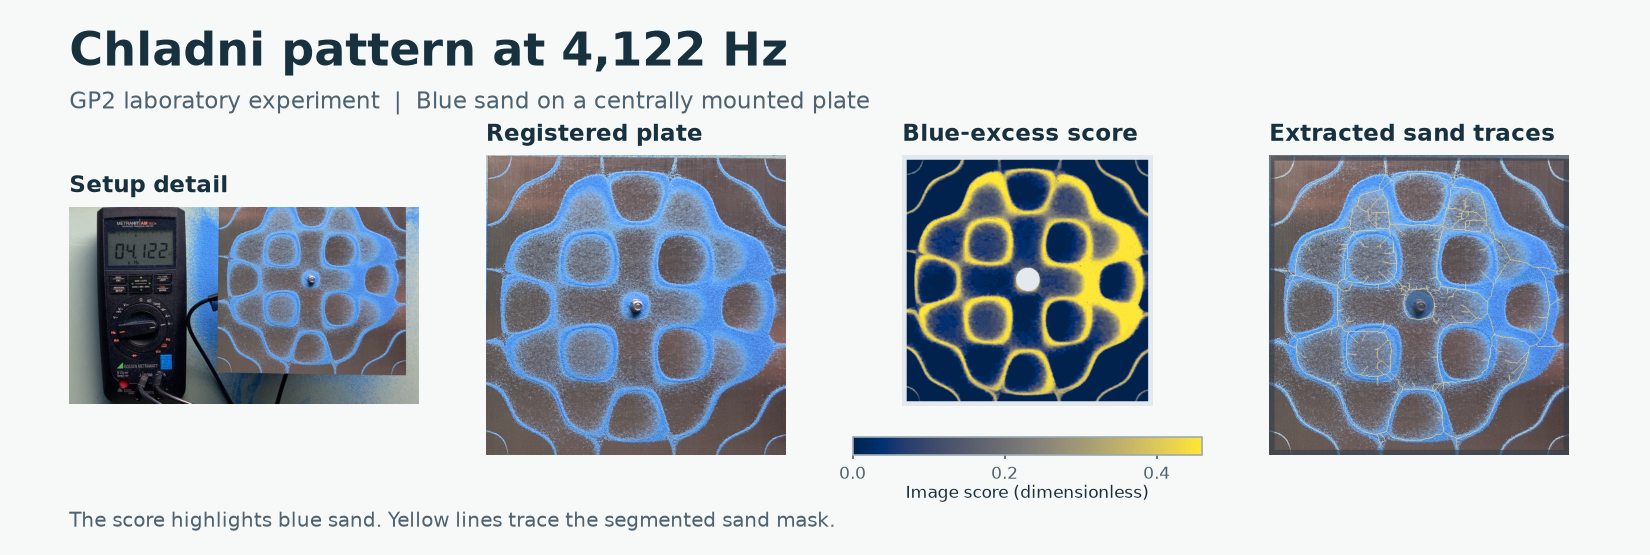
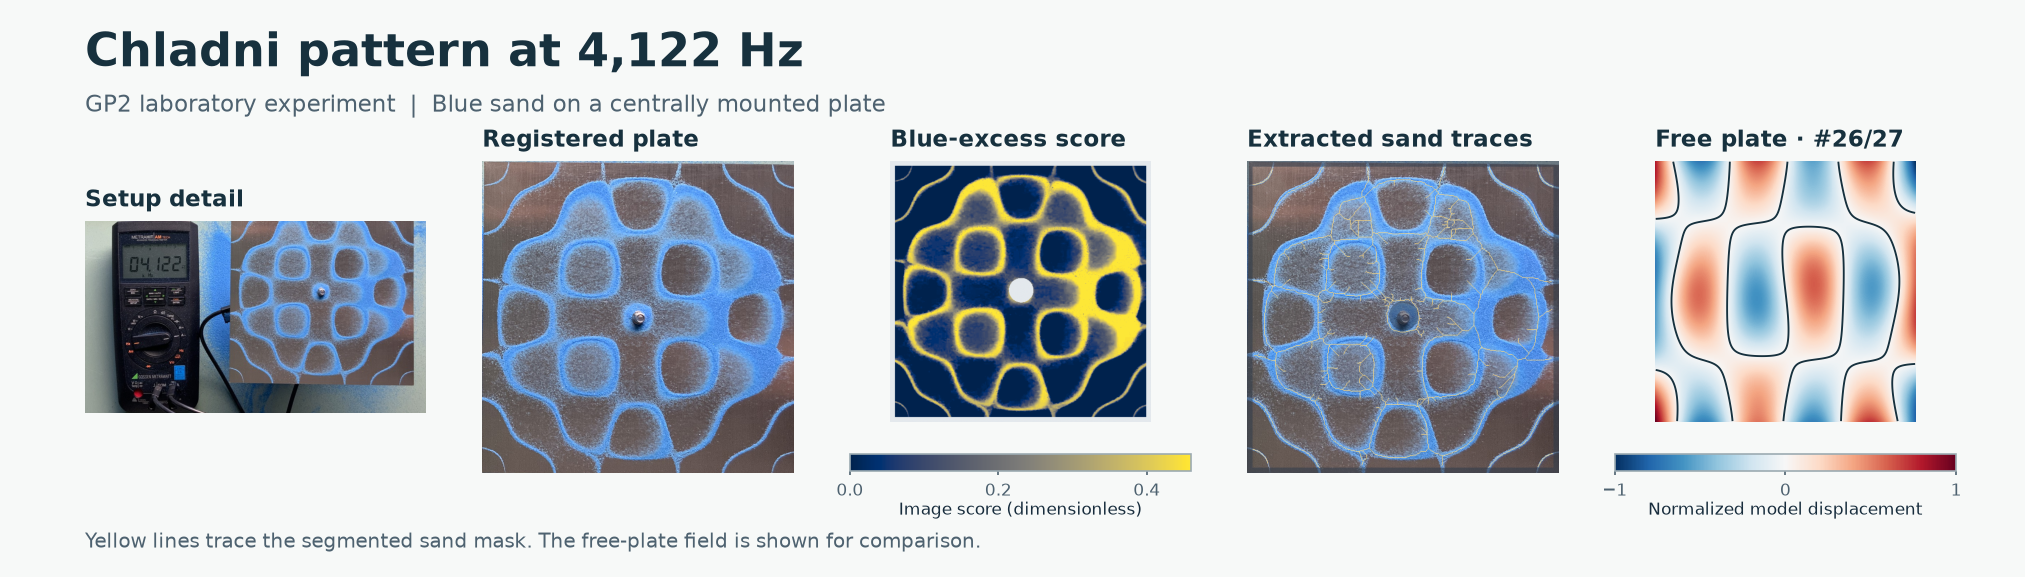
Restore the free-plate comparison in the experiment figure

diff --git a/dokumentation/V3_REPRODUKTION.md b/dokumentation/V3_REPRODUKTION.md
@@ -51,7 +51,7 @@ Die IDs der zugrunde liegenden lokalen Artefakte sind per SHA-256 im V3-Laufmani
 
 ## Bildtafeln aus zwei freigegebenen Aufnahmen
 
-- **4122 Hz** · Die Quelle ist die lokale Aufnahme `IMG_1601`. Die Tafel kombiniert einen Aufbauausschnitt aus der Originalvorschau, die perspektivisch registrierte Platte und die gespeicherten Raster `score`, `sicht` und `linien`. Die Heatmap zeigt den dimensionslosen Blauüberschuss-Score mit fester Farbskala von 0 bis 0,46. Gelb markiert das Skelett der segmentierten Sandmaske.
+- **4122 Hz** · Die Quelle ist die lokale Aufnahme `IMG_1601`. Die Tafel kombiniert einen Aufbauausschnitt aus der Originalvorschau, die perspektivisch registrierte Platte und die gespeicherten Raster `score`, `sicht` und `linien`. Die Heatmap zeigt den dimensionslosen Blauüberschuss-Score mit fester Farbskala von 0 bis 0,46. Gelb markiert das Skelett der segmentierten Sandmaske. Das letzte Feld zeigt die normierte Auslenkung und Nullkontur aus der archivierten Datei `modellfeld.npy` für die freie Platte #26/27 als numerischen Vergleich.
 - **3723 Hz** · Die Quelle ist die lokale Kontrollaufnahme `IMG_1583`. Die Modellkontur nutzt die Nullhöhe des führenden V2-Kandidaten aus `invers.json` und `inverse_felder.npz`. Die Prüfdistanz auf den zurückgehaltenen Streifen beträgt gerundet 2,99 % der Plattenseite. Die geometrische Schwelle beträgt 2,00 %.
 
 Die Veröffentlichung enthält die zwei fertigen PNG-Tafeln ohne eingebettete EXIF-Daten. Für eine Neuberechnung werden die privaten V1- und V2-Artefakte benötigt.

diff --git a/README.md b/README.md
@@ -2,9 +2,9 @@
 
 Experimental pattern analysis, numerical plate mechanics, and inverse mode identification.
 
-![GP2 experiment at 4,122 Hz showing the setup, registered plate, blue-excess score heatmap, and extracted sand traces.](assets/figures/experiment-4122.png)
+![GP2 experiment at 4,122 Hz showing the setup, registered plate, blue-excess score heatmap, extracted sand traces, and the calculated free-plate field for modes 26/27.](assets/figures/experiment-4122.png)
 
-*GP2 experiment at 4,122 Hz. The heatmap shows the image segmentation score.*
+*GP2 experiment at 4,122 Hz. The blue–yellow heatmap shows the image segmentation score. The last panel shows the calculated free-plate displacement for modes #26/27 and its zero contour.*
 
 **How reliably can a stationary sand pattern identify a vibrating plate's mode family?**
 
